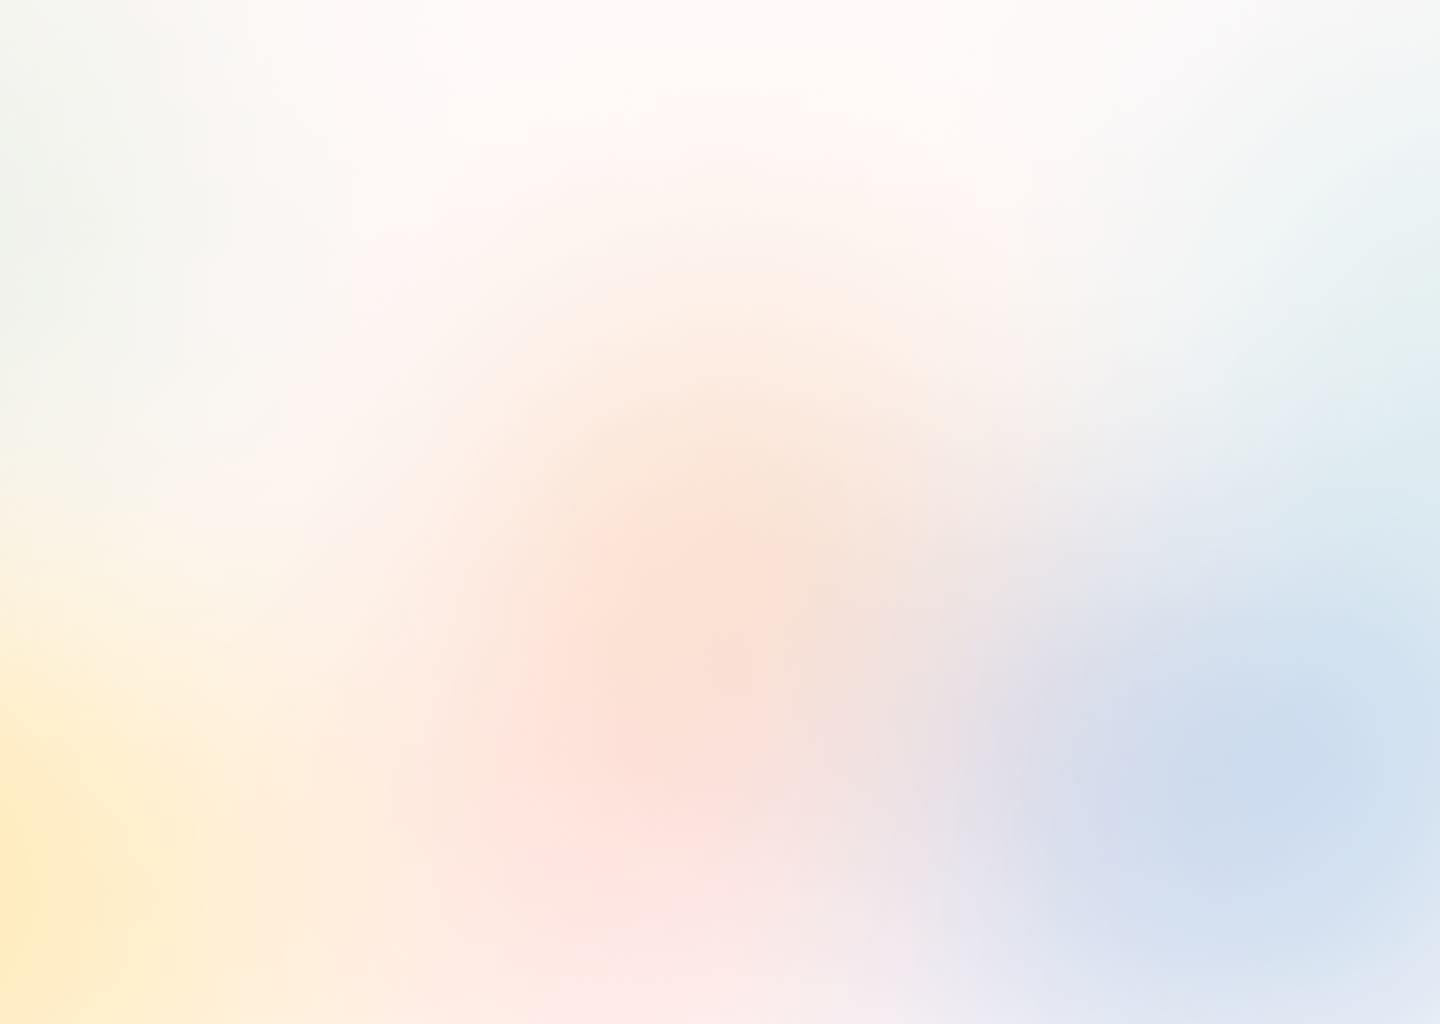
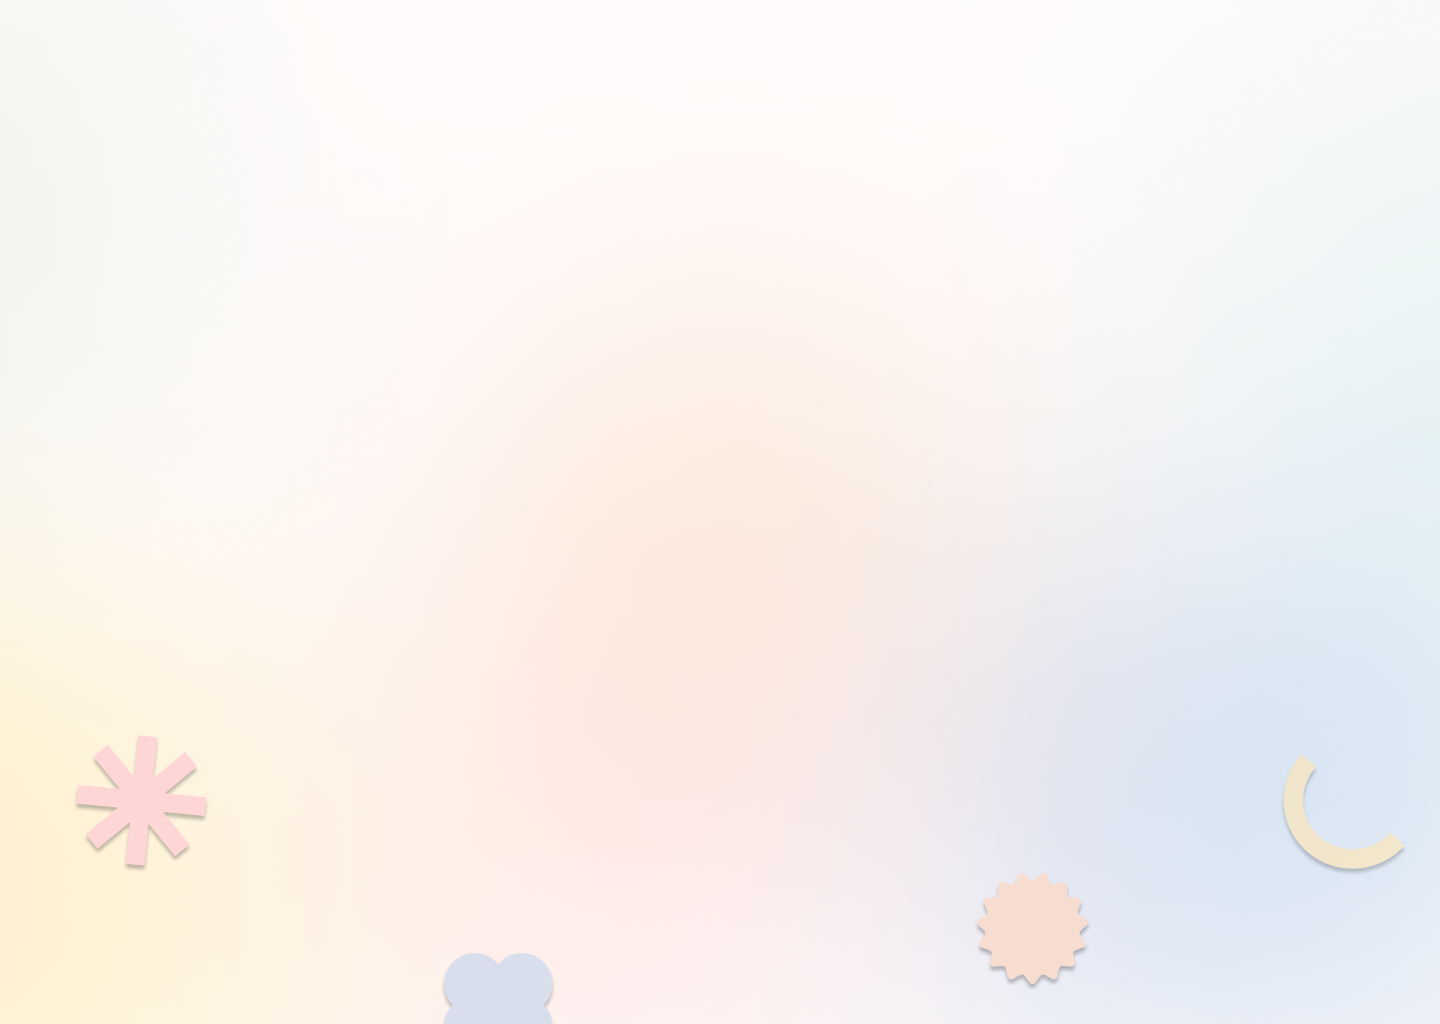
update background image

diff --git a/dau/app/page.js b/dau/app/page.js
@@ -1,23 +1,28 @@
 import Image from 'next/image';
 import Logo from "../public/images/primary_logo.svg";
+import SecondaryLogo from "../public/images/secondary_logo.svg";
 
 export default function Home() {
   return (
     <div>
-      <div className="w-screen h-screen bg-[url('../public/images/bg.png')] bg-cover bg-center">
-      <nav className="flex flex-row justify-between h-24">
-          <div className="flex items-center"> 
-              <Image src={Logo} alt="DAU Logo" className="w-32 h-32"/>
-          </div>
-          <div className="flex items-center space-x-6 text-accent font-bold text-2xl">
-            <a href="../about/about.html">ABOUT</a>
-            <a href="#">EVENTS</a>
-            <a href="#">RESOURCES</a>
-            <a href="#">CONTACT</a>
-            <a href="#">JOIN</a>
-          </div>
-      </nav>
+      <div className="w-screen h-screen bg-[url('../public/images/bg.png')] bg-cover bg-bottom bg-center bg-no-repeat">
+        <nav className="flex flex-row justify-between h-24">
+            <div className="flex items-center"> 
+                <Image src={Logo} alt="DAU Logo" className="w-32 h-32"/>
+            </div>
+            <div className="flex items-center space-x-6 text-accent font-bold text-2xl">
+              <a href="../about/about.html">ABOUT</a>
+              <a href="#">EVENTS</a>
+              <a href="#">RESOURCES</a>
+              <a href="#">CONTACT</a>
+              <a href="#">JOIN</a>
+            </div>
+        </nav>
+        <section id="main" className="w-screen h-[90vh] flex justify-center items-center flex-col">
+          <Image src={SecondaryLogo} alt="DAU Secondary Logo"/>
+        </section>
       </div>
+      <p>HIHIHII</p>
     </div>
   );
 }
